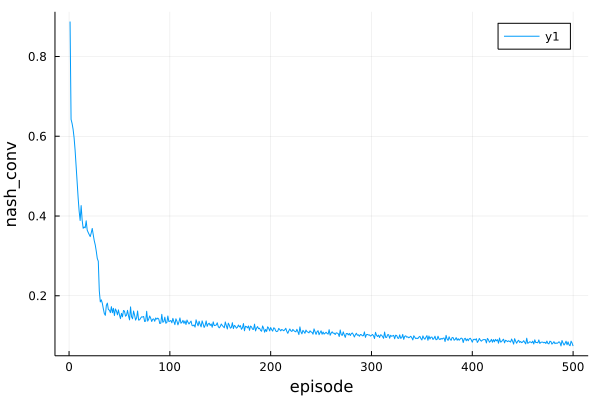
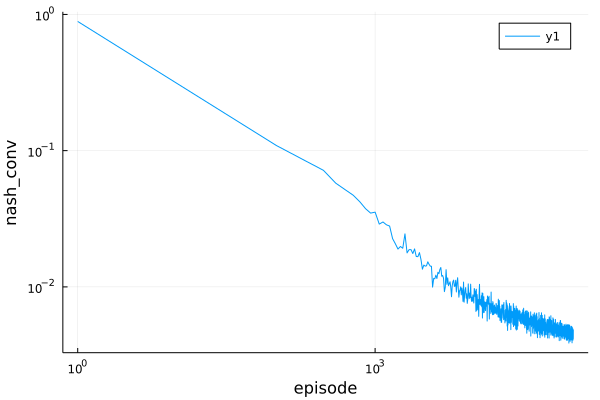
Update ED algorithm and the report. (#508)
* add gpu support for ed algorithm

* update the experiment and the result

* update the report

* minor updates in ed

diff --git a/docs/homepage/blog/ospp_report_210370190/index.md b/docs/homepage/blog/ospp_report_210370190/index.md
@@ -16,7 +16,7 @@
                 "affiliationURL":"http://english.ecnu.edu.cn/"
             }
         ],
-        "publishedDate":"2021-09-13",
+        "publishedDate":"2021-09-21",
         "citationText":"Peter Chen, 2021"
     }"""
 
@@ -43,7 +43,7 @@ Recent advances in reinforcement learning led to many breakthroughs in artificia
 
 ### 1.2 Accomplished Work
 
-From July 1st to now, I have implemented the **Neural Fictitious Self-play(NFSP)**, **Multi-agent Deep Deterministic Policy Gradient(MADDPG)** algorithms in [ReinforcementLearningZoo.jl](https://juliareinforcementlearning.org/docs/rlzoo/). Some workable experiments(see **Usage** part in each algorithm's section) are also added to the documentation. Besides, for testing the performance of **MADDPG** algorithm, I implemented [`SpeakerListenerEnv`](https://juliareinforcementlearning.org/docs/rlenvs/#ReinforcementLearningEnvironments.SpeakerListenerEnv-Tuple{}) in [ReinforcementLearningEnvironments.jl](https://juliareinforcementlearning.org/docs/rlenvs/). Related commits are listed below:
+From July 1st to now, I have implemented the **Neural Fictitious Self-play(NFSP)**, **Multi-agent Deep Deterministic Policy Gradient(MADDPG)** and **Exploitability Descent(ED)** algorithms in [ReinforcementLearningZoo.jl](https://juliareinforcementlearning.org/docs/rlzoo/). Some workable experiments(see **Usage** part in each algorithm's section) are also added to the documentation. Besides, for testing the performance of **MADDPG** algorithm, I also implemented [`SpeakerListenerEnv`](https://juliareinforcementlearning.org/docs/rlenvs/#ReinforcementLearningEnvironments.SpeakerListenerEnv-Tuple{}) in [ReinforcementLearningEnvironments.jl](https://juliareinforcementlearning.org/docs/rlenvs/). Related commits are listed below:
 
 - [add Base.:(==) and Base.hash for AbstractEnv and test nash_conv on KuhnPokerEnv#348](https://github.com/JuliaReinforcementLearning/ReinforcementLearning.jl/pull/348)
 - [Supplement functions in ReservoirTrajectory and BehaviorCloningPolicy #390](https://github.com/JuliaReinforcementLearning/ReinforcementLearning.jl/pull/390)
@@ -53,13 +53,34 @@ From July 1st to now, I have implemented the **Neural Fictitious Self-play(NFSP)
 - [Update maddpg and the report #470](https://github.com/JuliaReinforcementLearning/ReinforcementLearning.jl/pull/470)
 - [Add the experiment of MADDPG. #481](https://github.com/JuliaReinforcementLearning/ReinforcementLearning.jl/pull/481)
 - [Update experiments of maddpg #487](https://github.com/JuliaReinforcementLearning/ReinforcementLearning.jl/pull/487)
+- [Play OpenSpiel envs with NFSP and try to add ED algorithm. #496](https://github.com/JuliaReinforcementLearning/ReinforcementLearning.jl/pull/496)
 - ...
 
 ## 2. Implementation and Usage
 
-In this section, I will first briefly review the [`Agent`](https://juliareinforcementlearning.org/docs/rlcore/#ReinforcementLearningCore.Agent) structure defined in [ReinforcementLearningCore.jl](https://juliareinforcementlearning.org/docs/rlcore/). Then I'll explain how these multi-agent algorithms(**NFSP**, **MADDPG**, ...) are implemented, followed by a short example to demonstrate how others can use them in their customized environments.
+In this section, I will first briefly introduce some particular concepts in multi-agent reinforcement learning. Then I will review the [`Agent`](https://juliareinforcementlearning.org/docs/rlcore/#ReinforcementLearningCore.Agent) structure defined in [ReinforcementLearningCore.jl](https://juliareinforcementlearning.org/docs/rlcore/). After that,  I'll explain how these multi-agent algorithms(**NFSP**, **MADDPG**, and **ED**) are implemented, followed by some short examples to demonstrate how others can use them in their customized environments.
 
-### 2.1 An Introduction to `Agent`
+### 2.1 Terminology
+
+This part is for introducing some terminologies in multi-agent reinforcement learning:
+
+- [**Best Response**](https://juliareinforcementlearning.org/docs/rlzoo/#ReinforcementLearningZoo.BestResponsePolicy-Tuple{Any,%20Any,%20Any}):
+
+Given a joint policy $\boldsymbol{\pi}$, which includes policies for all players, the **Best Response(BR)** policy for the player $i$ is the policy that achieves optimal payoff performance against $\boldsymbol{\pi}_{-i}$ :
+
+$$
+b_{i} \left(\boldsymbol{\pi}_{-i} \right) \in \mathrm{BR}\left(\boldsymbol{\pi}_{-i}\right)=\left\{\boldsymbol{\pi}_{i} \mid v_{i,\left(\boldsymbol{\pi}_{i}, \boldsymbol{\pi}_{-i}\right)}=\max _{\boldsymbol{\pi}_{i}^{\prime}} v_{i,\left(\boldsymbol{\pi}_{i}^{\prime}, \boldsymbol{\pi}_{-i}\right)}\right\}
+$$
+
+where $\boldsymbol{\pi}_{i}$ is the policy of the player $i$, $\boldsymbol{\pi}_{-i}$ refers to all policies in $\boldsymbol{\pi}$ except $\boldsymbol{\pi}_{i}$, and $v_{i,\left(\boldsymbol{\pi}_{i}^{\prime}, \boldsymbol{\pi}_{-i}\right)}$ is the expected reward of the joint policy $\left(\boldsymbol{\pi}_{i}^{\prime}, \boldsymbol{\pi}_{-i} \right)$ fot the player $i$.
+
+- [**Nash Equilibrium**](https://en.wikipedia.org/wiki/Nash_equilibrium):
+
+A **Nash Equilibrium** is a joint policy $\boldsymbol{\pi}$ such the each player's policy in $\boldsymbol{\pi}$ is a best reponse to the other policies. A common metric to measure the distance to **Nash Equilibrium** is [`nash_conv`](https://github.com/JuliaReinforcementLearning/ReinforcementLearning.jl/blob/master/src/ReinforcementLearningZoo/src/algorithms/cfr/nash_conv.jl#L29). 
+
+Given a joint policy $\boldsymbol{\pi}$, the **exploitability** for the player $i$ is the respective incentives to deviate from the current policy to the best response, denoted $\delta_{i}(\boldsymbol{\pi})=v_{i, \left(\boldsymbol{\pi}_{i}^{\prime}, \boldsymbol{\pi}_{-i}\right)} - v_{i, \boldsymbol{\pi}}$ where $\boldsymbol{\pi}_{i}^{\prime} \in \mathrm{BR}\left(\boldsymbol{\pi}_{-i}\right)$. In two-player [**zero-sum**](https://juliareinforcementlearning.org/docs/rlbase/#ReinforcementLearningBase.ZERO_SUM) games, an **$\epsilon$-Nash Equilibrium** policy is one where $\max _{i} \delta_{i}(\boldsymbol{\pi}) \leq \epsilon$. A **Nash Equilibrium** is achieved when $\epsilon = 0$. And the `nash_conv`$(\boldsymbol{\pi}) = \sum_{i} \delta_{i}\left(\boldsymbol{\pi}\right)$.
+
+### 2.2 An Introduction to `Agent`
 
 The [`Agent`](https://juliareinforcementlearning.org/docs/rlcore/#ReinforcementLearningCore.Agent) struct is an extended [`AbstractPolicy`](https://juliareinforcementlearning.org/docs/rlbase/#ReinforcementLearningBase.AbstractPolicy) that includes a concrete policy and a trajectory. The trajectory is used to collect the necessary information to train the policy. In the existing [code](https://github.com/JuliaReinforcementLearning/ReinforcementLearning.jl/blob/master/src/ReinforcementLearningCore/src/policies/agents/agent.jl),  the lifecycle of the [interactions](https://juliareinforcementlearning.org/docs/rlcore/#ReinforcementLearningCore.Agent-Tuple{AbstractStage,%20AbstractEnv}) between agents and environments is split into several stages, including `PreEpisodeStage`,  `PreActStage`, `PostActStage` and `PostEpisodeStage`.
 
@@ -77,7 +98,7 @@ end
 
 And when running the experiment, based on the built-in [`run`](https://juliareinforcementlearning.org/docs/rlzoo/#ReinforcementLearningCore._run) function, the agent can update its policy and trajectory based on the behaviors that we have defined. Thanks to the [**multiple dispatch**](https://en.wikipedia.org/wiki/Multiple_dispatch) in Julia,  the **main focus** when implementing a new algorithm is how to **customize the behavior** of collecting the training information and updating the policy when in the specific stage. For more details, you can refer to this [blog](https://juliareinforcementlearning.org/blog/an_introduction_to_reinforcement_learning_jl_design_implementations_thoughts/#21_the_general_workflow).
 
-### 2.2 Neural Fictitious Self-play(NFSP) algorithm
+### 2.3 Neural Fictitious Self-play(NFSP) algorithm
 
 #### Brief Introduction
 
@@ -87,7 +108,7 @@ And when running the experiment, based on the built-in [`run`](https://juliarein
 
 #### Implementation
 
-In ReinforcementLearningZoo.jl, I implement the [`NFSPAgent`](https://juliareinforcementlearning.org/docs/rlzoo/#:~:text=ReinforcementLearningZoo.NFSPAgent) which define the `NFSPAgent` struct and design its behaviors according to the **NFSP** algorithm, including collecting needed information and how to update the policy. And the [`NFSPAgentManager`](https://juliareinforcementlearning.org/docs/rlzoo/#ReinforcementLearningZoo.NFSPAgentManager) is a special multi-agent manager that all agents apply **NFSP** algorithm. Besides, in the [`abstract_nfsp`](https://github.com/JuliaReinforcementLearning/ReinforcementLearning.jl/blob/master/src/ReinforcementLearningZoo/src/algorithms/nfsp/abstract_nfsp.jl), I customize the `run` function for `NFSPAgentManager`.
+In ReinforcementLearningZoo.jl, I implement the [`NFSPAgent`](https://juliareinforcementlearning.org/docs/rlzoo/#:~:text=ReinforcementLearningZoo.NFSPAgent) which defines the `NFSPAgent` struct and designs its behaviors according to the **NFSP** algorithm, including collecting needed information and how to update the policy. And the [`NFSPAgentManager`](https://juliareinforcementlearning.org/docs/rlzoo/#ReinforcementLearningZoo.NFSPAgentManager) is a special multi-agent manager that all agents apply **NFSP** algorithm. Besides, in the [`abstract_nfsp`](https://github.com/JuliaReinforcementLearning/ReinforcementLearning.jl/blob/master/src/ReinforcementLearningZoo/src/algorithms/nfsp/abstract_nfsp.jl), I customize the `run` function for `NFSPAgentManager`.
 
 Since the core of the algorithm is to define the behavior of the `NFSPAgent`, I'll explain how it is done as the following:
 ```Julia
@@ -277,11 +298,11 @@ nfsp = NFSPAgentManager(
 )
 ```
 
-Based on the setting [`stop_condition`](https://github.com/JuliaReinforcementLearning/ReinforcementLearning.jl/blob/master/docs/experiments/experiments/NFSP/JuliaRL_NFSP_KuhnPoker.jl#L126) and designed [`hook`](https://github.com/JuliaReinforcementLearning/ReinforcementLearning.jl/blob/master/docs/experiments/experiments/NFSP/JuliaRL_NFSP_KuhnPoker.jl#L15) in the experiment, you can just `run(nfsp, wrapped_env, stop_condition, hook)` to perform the experiment. Use [`Plots.plot`](https://github.com/JuliaReinforcementLearning/ReinforcementLearning.jl/blob/master/docs/experiments/experiments/NFSP/JuliaRL_NFSP_KuhnPoker.jl#L136) to get the following result: (here [`nash_conv`](https://github.com/JuliaReinforcementLearning/ReinforcementLearning.jl/blob/master/src/ReinforcementLearningZoo/src/algorithms/cfr/nash_conv.jl#L1) is one common metric to show the performance of a multi-agent reinforcement learning algorithm.)
+Based on the setting [`stop_condition`](https://github.com/JuliaReinforcementLearning/ReinforcementLearning.jl/blob/master/docs/experiments/experiments/NFSP/JuliaRL_NFSP_KuhnPoker.jl#L126) and designed [`hook`](https://github.com/JuliaReinforcementLearning/ReinforcementLearning.jl/blob/master/docs/experiments/experiments/NFSP/JuliaRL_NFSP_KuhnPoker.jl#L15) in the experiment, you can just `run(nfsp, wrapped_env, stop_condition, hook)` to perform the experiment. Use [`Plots.plot`](https://github.com/JuliaReinforcementLearning/ReinforcementLearning.jl/blob/master/docs/experiments/experiments/NFSP/JuliaRL_NFSP_KuhnPoker.jl#L136) to get the following result:
 
 \dfig{body;JuliaRL_NFSP_KuhnPoker.png;Play KuhnPoker with NFSP.}
 
-Besides, you can also play games implemented in 3rd party [`OpenSpiel`](https://juliareinforcementlearning.org/docs/rlenvs/#ReinforcementLearningEnvironments.OpenSpielEnv)(see the [doc](https://openspiel.readthedocs.io/en/latest/julia.html)) with `NFSPAgentManager`, such as ["kuhn_poker"](https://openspiel.readthedocs.io/en/latest/games.html#kuhn-poker).
+Besides, you can also play games implemented in 3rd party [`OpenSpiel`](https://juliareinforcementlearning.org/docs/rlenvs/#ReinforcementLearningEnvironments.OpenSpielEnv)(see the [doc](https://openspiel.readthedocs.io/en/latest/julia.html)) with `NFSPAgentManager`, such as ["kuhn_poker"](https://openspiel.readthedocs.io/en/latest/games.html#kuhn-poker) and ["leduc_poker"](https://openspiel.readthedocs.io/en/latest/games.html#leduc-poker), just like the following:
 ```Julia
 env = OpenSpielEnv("kuhn_poker")
 wrapped_env = ActionTransformedEnv(
@@ -295,11 +316,11 @@ wrapped_env = ActionTransformedEnv(
 wrapped_env = DefaultStateStyleEnv{InformationSet{Array}()}(wrapped_env)
 ```
 
-Apart from the above environment setting, most details are the same with `NFSP_KuhnPoker.` The result is shown below. For more details, you can refer to the [experiment](https://github.com/JuliaReinforcementLearning/ReinforcementLearning.jl/blob/master/docs/experiments/experiments/NFSP/JuliaRL_NFSP_OpenSpiel.jl) `NFSP_OpenSpiel`.
+Apart from the above environment wrapping, most details are the same with the experiment `JuliaRL_NFSP_KuhnPoker.` The result is shown below. For more details, you can refer to the [experiment](https://juliareinforcementlearning.org/docs/experiments/experiments/NFSP/JuliaRL_NFSP_OpenSpiel/#JuliaRL\\_NFSP\\_OpenSpiel(kuhn_poker)) `JuliaRL_NFSP_OpenSpiel(kuhn_poker)`.
 
 \dfig{body;JuliaRL_NFSP_OpenSpiel(kuhn_poker).png;Play "kuhn_poker" in OpenSpiel with NFSP.}
 
-### 2.3 Multi-agent Deep Deterministic Policy Gradient(MADDPG) algorithm
+### 2.4 Multi-agent Deep Deterministic Policy Gradient(MADDPG) algorithm
 
 #### Brief Introduction
 
@@ -497,16 +518,223 @@ Add the [`stop_condition`](https://github.com/JuliaReinforcementLearning/Reinfor
 
 \dfig{body;JuliaRL_MADDPG_SpeakerListenerEnv.png;Play SpeakerListenerEnv with MADDPG.}
 
-### 2.4 Exploitability Descent(ED) algorithm
+### 2.5 Exploitability Descent(ED) algorithm
 
 #### Brief Introduction
 
-...
+**Exploitability Descent(ED)**\dcite{DBLP:journals/corr/abs-1903-05614} is the algorithm to compute approximate equilibria in two-player [**zero-sum**](https://juliareinforcementlearning.org/docs/rlbase/#ReinforcementLearningBase.ZERO_SUM) [extensive-form games](https://en.wikipedia.org/wiki/Extensive-form_game) with imperfect information\dcite{osborne1994course}. The **ED** algorithm directly optimizes the player's policy against the worst case oppoent. The **exploitability** of each player applying **ED**'s policy converges asymptotically to zero. Hence in self-play, the joint policy $\boldsymbol{\pi}$ converges to an approximate **Nash Equilibrium**.
+
 #### Implementation
 
-...
+Unlike the above two algorithms, the **ED** algorithm does not need to collect the information in each stage. Instead, on each iteration, there are the following two steps that occur for each player employing the **ED** algorithm:
+
+- Compute the best response policy to each player's policy;
+- Perform the gradient ascent on the policy to increase each player's utility against the respective best responder(i.e. the opponent), which aims to decrease each player's **exploitability**.
+
+In ReinforcementLearingZoo.jl, I implement [`EDPolicy`](https://juliareinforcementlearning.org/docs/rlzoo/#ReinforcementLearningZoo.EDPolicy) which defines the `EDPolicy` struct and customize the interactions with the environments:
+```Julia
+## definition
+mutable struct EDPolicy{P<:NeuralNetworkApproximator, E<:AbstractExplorer}
+    opponent::Any # record the opponent's name.
+    learner::P # get the action value of the state.
+    explorer::E # by default use `WeightedSoftmaxExplorer`.
+end
+## interactions with the environment
+function (π::EDPolicy)(env::AbstractEnv)
+    s = state(env)
+    s = send_to_device(device(π.learner), Flux.unsqueeze(s, ndims(s) + 1))
+    logits = π.learner(s) |> vec |> send_to_host
+    ActionStyle(env) isa MinimalActionSet ? π.explorer(logits) : 
+        π.explorer(logits, legal_action_space_mask(env))
+end
+# set the `_device` function for convenience transferring the variable to the corresponding device.
+_device(π::EDPolicy, x) = send_to_device(device(π.learner), x)
+
+function RLBase.prob(π::EDPolicy, env::AbstractEnv; to_host::Bool = true)
+    s = @ignore state(env) |> x -> Flux.unsqueeze(x, ndims(x) + 1) |> x -> _device(π, x)
+    logits = π.learner(s) |> vec
+    mask = @ignore legal_action_space_mask(env) |> x -> _device(π, x)
+    p = ActionStyle(env) isa MinimalActionSet ? prob(π.explorer, logits) : prob(π.explorer, logits, mask)
+    to_host ? p |> send_to_host : p
+end
+
+function RLBase.prob(π::EDPolicy, env::AbstractEnv, action)
+    A = action_space(env)
+    P = prob(π, env)
+    @assert length(A) == length(P)
+    if A isa Base.OneTo
+        P[action]
+    else
+        for (a, p) in zip(A, P)
+            if a == action
+                return p
+            end
+        end
+        @error "action[$action] is not found in action space[$(action_space(env))]"
+    end
+end
+```
+
+Here I use many macro operators [`@ignore`](https://fluxml.ai/Zygote.jl/latest/utils/#Zygote.ignore) for being able to compute the gradient of the parameters. Also, I design the [`update!`](https://github.com/JuliaReinforcementLearning/ReinforcementLearning.jl/blob/master/src/ReinforcementLearningZoo/src/algorithms/exploitability_descent/EDPolicy.jl#L71) function for `EDPolicy` when getting the opponent's best response policy:
+```Julia
+function RLBase.update!(
+    π::EDPolicy, 
+    Opponent_BR::BestResponsePolicy, 
+    env::AbstractEnv,
+    player::Any,
+)
+    reset!(env)
+
+    # construct policy vs best response
+    policy_vs_br = PolicyVsBestReponse(
+        MultiAgentManager(
+            NamedPolicy(player, π),
+            NamedPolicy(π.opponent, Opponent_BR),
+            ),
+        env,
+        player,
+    )
+    info_states = collect(keys(policy_vs_br.info_reach_prob))
+    cfr_reach_prob = collect(values(policy_vs_br.info_reach_prob)) |> x -> _device(π, x)
+
+    gs = gradient(Flux.params(π.learner)) do
+        # Vector of shape `(length(info_states), 1)`
+        # compute expected reward from the start of `e` with policy_vs_best_reponse
+        # baseline = ∑ₐ πᵢ(s, a) * q(s, a)
+        baseline = @ignore Flux.stack(([values_vs_br(policy_vs_br, e)] for e in info_states), 1) |> x -> _device(π, x)
+        
+        # Vector of shape `(length(info_states), length(action_space))`
+        # compute expected reward from the start of `e` when playing each action.
+        q_values = Flux.stack((q_value(π, policy_vs_br, e) for e in info_states), 1)
+
+        advantage = q_values .- baseline
+        # Vector of shape `(length(info_states), length(action_space))`
+        # get the prob of each action with `e`, i.e., πᵢ(s, a).
+        policy_values = Flux.stack((prob(π, e, to_host = false) for e in info_states), 1)
+
+        # get each info_state's loss
+        # ∑ₐ πᵢ(s, a) * (q(s, a) - baseline), where baseline = ∑ₐ πᵢ(s, a) * q(s, a).
+        loss_per_state = - sum(policy_values .* advantage, dims = 2)
+
+        sum(loss_per_state .* cfr_reach_prob)
+    end
+    update!(π.learner, gs)
+end
+```
+
+Here I implement one [`PolicyVsBestResponse`](https://github.com/JuliaReinforcementLearning/ReinforcementLearning.jl/blob/master/src/ReinforcementLearningZoo/src/algorithms/exploitability_descent/EDPolicy.jl#L117) struct for computing related values, such as the [probabilities](https://github.com/JuliaReinforcementLearning/ReinforcementLearning.jl/blob/master/src/ReinforcementLearningZoo/src/algorithms/exploitability_descent/EDPolicy.jl#L141) of opponent's reaching one particular environment in playing, and the [expected reward](https://github.com/JuliaReinforcementLearning/ReinforcementLearning.jl/blob/master/src/ReinforcementLearningZoo/src/algorithms/exploitability_descent/EDPolicy.jl#L162) from the start of a specific environment when against the opponent's **best response**.
+
+Besides, I implement the [`EDManager`](https://juliareinforcementlearning.org/docs/rlzoo/#ReinforcementLearningZoo.EDManager), which is a special multi-agent manager that all agents utilize the **ED** algorithm, and set the particular `run` function for running the experiment:
+```Julia
+## run function
+function Base.run(
+    π::EDManager,
+    env::AbstractEnv,
+    stop_condition = StopAfterEpisode(1),
+    hook::AbstractHook = EmptyHook(),
+)
+    @assert NumAgentStyle(env) == MultiAgent(2) "ED algorithm only support 2-players games."
+    @assert UtilityStyle(env) isa ZeroSum "ED algorithm only support zero-sum games."
+
+    is_stop = false
+
+    while !is_stop
+        RLBase.reset!(env)
+        hook(PRE_EPISODE_STAGE, π, env)
+
+        for (player, policy) in π.agents
+            # construct opponent's best response policy.
+            oppo_best_response = BestResponsePolicy(π, env, policy.opponent)
+            # update player's policy by using policy-gradient.
+            update!(policy, oppo_best_response, env, player)
+        end
+
+        # run one episode for update stop_condition
+        RLBase.reset!(env)
+        while !is_terminated(env)
+            π(env) |> env
+        end
+
+        if stop_condition(π, env)
+            is_stop = true
+            break
+        end
+        hook(POST_EPISODE_STAGE, π, env)
+    end
+    hook(POST_EXPERIMENT_STAGE, π, env)
+    hook
+end
+```
+
 #### Usage
 
-...
+According to the paper\dcite{DBLP:journals/corr/abs-1903-05614}, `EDmanager` only supports for the two-player **zero-sum** games. There is one [experiment](https://juliareinforcementlearning.org/docs/experiments/experiments/ED/JuliaRL_ED_OpenSpiel/#JuliaRL\\_ED\\_OpenSpiel(kuhn_poker)) `JuliaRL_ED_OpenSpiel` as one usage example, which tests the algorithm on the Kuhn Poker game in 3rd-party `OpenSpiel`. Here I also customized the `hook` and `stop_condition` for testing the implemented **ED** algorithm.
+
+New `hook` is designed as the following:
+```Julia
+mutable struct KuhnOpenNewEDHook <: AbstractHook
+    episode::Int
+    eval_freq::Int
+    episodes::Vector{Int}
+    results::Vector{Float64}
+end
+
+function (hook::KuhnOpenNewEDHook)(::PreEpisodeStage, policy, env)
+    hook.episode += 1
+    if hook.episode % hook.eval_freq == 1
+        push!(hook.episodes, hook.episode)
+        ## get nash_conv of the current policy.
+        push!(hook.results, RLZoo.nash_conv(policy, env))
+    end
+
+    ## update agents' learning rate.
+    for (_, agent) in policy.agents
+        agent.learner.optimizer[2].eta = 1.0 / sqrt(hook.episode)
+    end
+end
+```
+
+Next, wrap the environment and initialize the `EDmanager`, `hook` and `stop_condition`:
+```Julia
+# set random seed.
+rng = StableRNG(123)
+# wrap and initial the OpenSpiel environment.
+env = OpenSpielEnv(game)
+wrapped_env = ActionTransformedEnv(
+    env,
+    action_mapping = a -> RLBase.current_player(env) == chance_player(env) ? a : Int(a - 1),
+    action_space_mapping = as -> RLBase.current_player(env) == chance_player(env) ? 
+        as : Base.OneTo(num_distinct_actions(env.game)),
+)
+wrapped_env = DefaultStateStyleEnv{InformationSet{Array}()}(wrapped_env)
+player = 0 # or 1
+ns, na = length(state(wrapped_env, player)), length(action_space(wrapped_env, player))
+# construct the `EDmanager`.
+create_network() = Chain(
+    Dense(ns, 64, relu;init = glorot_uniform(rng)),
+    Dense(64, na;init = glorot_uniform(rng))
+)
+create_learner() = NeuralNetworkApproximator(
+    model = create_network(),
+    optimizer = Flux.Optimise.Optimiser(WeightDecay(0.001), Descent())
+)
+EDmanager = EDManager(
+    Dict(
+        player => EDPolicy(
+            1 - player, # opponent
+            create_learner(), # neural network learner
+            WeightedSoftmaxExplorer(), # explorer
+        ) for player in players(env) if player != chance_player(env)
+    )
+)
+# initialize the `stop_condition` and `hook`.
+stop_condition = StopAfterEpisode(100_000, is_show_progress=!haskey(ENV, "CI"))
+hook = KuhnOpenNewEDHook(0, 100, [], [])
+```
+
+Based on the above setting, you can perform the experiment by `run(EDmanager, wrapped_env, stop_condition, hook)`. Use the following `Plots.plot` to get the experiment's result:
+```Julia
+plot(hook.episodes, hook.results, scale=:log10, xlabel="episode", ylabel="nash_conv")
+```
 
 \dfig{body;JuliaRL_ED_OpenSpiel(kuhn_poker).png;Play "kuhn_poker" in OpenSpiel with ED.}
